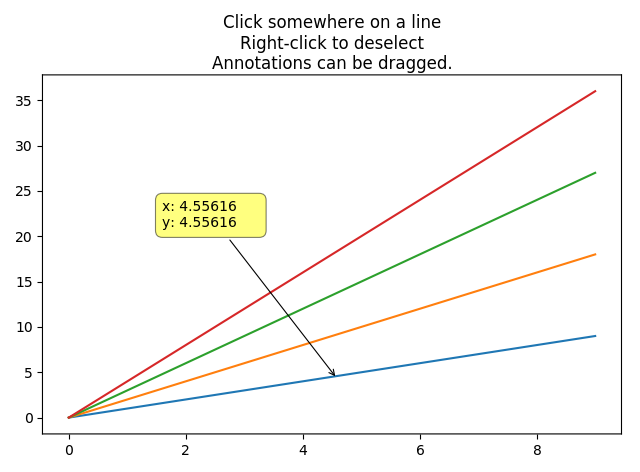
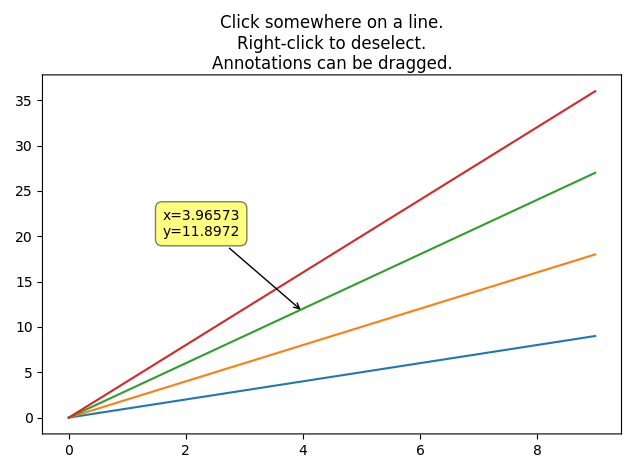
Add release script; prepare for release.

diff --git a/setup.py b/setup.py
@@ -7,6 +7,10 @@ from setuptools.command.install_lib import install_lib
 import versioneer
 
 
+if not sys.version_info >= (3, 5):
+    raise ImportError("mplcursors require Python>=3.5")
+
+
 # Environment variable-based activation.
 #
 # Technique inspired from http://github.com/ionelmc/python-hunter.
@@ -54,18 +58,17 @@ class install_lib_with_pth(install_lib):
                 file.name, str(Path(self.install_dir, "mplcursors.pth")))
 
 
-if __name__ == "__main__":
-    if not sys.version_info >= (3, 5):
-        raise ImportError("mplcursors require Python>=3.5")
-
-    setup(name="mplcursors",
-          version=versioneer.get_version(),
-          cmdclass={**versioneer.get_cmdclass(),
-                    "install_lib": install_lib_with_pth},
-          author="Antony Lee",
-          license="BSD",
-          classifiers=["Development Status :: 4 - Beta",
-                       "License :: OSI Approved :: BSD License",
-                       "Programming Language :: Python :: 3.5"],
-          packages=find_packages(include=["mplcursors", "mplcursors.*"]),
-          install_requires=["numpy>=1.8", "matplotlib>=1.5"])
+setup(name="mplcursors",
+      description="Interactive, clickable annotations for matplotlib",
+      long_description=Path("README.rst").read_text(),
+      version=versioneer.get_version(),
+      cmdclass={**versioneer.get_cmdclass(),
+                "install_lib": install_lib_with_pth},
+      author="Antony Lee",
+      url="https://github.com/anntzer/mplcursors",
+      license="BSD",
+      classifiers=["Development Status :: 4 - Beta",
+                   "License :: OSI Approved :: BSD License",
+                   "Programming Language :: Python :: 3.5"],
+      packages=find_packages(include=["mplcursors", "mplcursors.*"]),
+      install_requires=["numpy>=1.8", "matplotlib>=1.5"])

diff --git a/doc/conf.py b/doc/conf.py
@@ -62,11 +62,13 @@ author = 'Antony Lee'
 # |version| and |release|, also used in various other places throughout the
 # built documents.
 #
+# RTD modifies conf.py, making versioneer mark the version as -dirty.
+import re
 import mplcursors
 # The short X.Y version.
-version = mplcursors.__version__
+version = re.sub(r"\.dirty$", "", mplcursors.__version__)
 # The full version, including alpha/beta/rc tags.
-release = mplcursors.__version__
+release = re.sub(r"\.dirty$", "", mplcursors.__version__)
 
 # The language for content autogenerated by Sphinx. Refer to documentation
 # for a list of supported languages.

diff --git a/examples/basic.py b/examples/basic.py
@@ -9,7 +9,7 @@ data = np.outer(range(10), range(1, 5))
 
 fig, ax = plt.subplots()
 lines = ax.plot(data)
-ax.set_title("Click somewhere on a line\nRight-click to deselect\n"
+ax.set_title("Click somewhere on a line.\nRight-click to deselect.\n"
              "Annotations can be dragged.")
 fig.tight_layout()
 

diff --git a/README.rst b/README.rst
@@ -1,0 +1,24 @@
+mplcursors – Interactive, clickable annotations for matplotlib
+==============================================================
+
+|Python35| |Documentation Status| |Travis| |CodeCov|
+
+``mplcursors`` is my variation on ``mpldatacursor``
+(https://github.com/joferkington/mpldatacursor), with a much simplified
+API.
+
+Full documentation on `RTD <https://mplcursors.readthedocs.org>`__.
+
+Install with ``python -mpip install mplcursors`` (from PyPI) or
+``python -mpip install git+https://github.com/anntzer/mplcursors`` (from
+Github).
+
+Run tests with ``py.test``.
+
+.. |Python35| image:: https://img.shields.io/badge/python-3.5-blue.svg
+.. |Documentation Status| image:: https://readthedocs.org/projects/mplcursors/badge/?version=latest
+   :target: http://mplcursors.readthedocs.io/en/latest/?badge=latest
+.. |Travis| image:: https://travis-ci.org/anntzer/mplcursors.svg?branch=master
+   :target: https://travis-ci.org/anntzer/mplcursors
+.. |CodeCov| image:: https://codecov.io/gh/anntzer/mplcursors/master.svg
+   :target: https://codecov.io/gh/anntzer/mplcursors

diff --git a/doc/index.rst b/doc/index.rst
@@ -12,6 +12,16 @@ Welcome to mplcursors' documentation!
 
 :mod:`mplcursors` requires Python>=3.5 and :mod:`matplotlib`\>=1.5.0.
 
+.. _installation:
+
+Installation
+------------
+
+Pick one among::
+
+    $ pip install mplcursors # from PyPI
+    $ pip install git+https://github.com/anntzer/mplcursors # from Github
+
 .. _basic-example:
 
 Basic example
@@ -27,7 +37,7 @@ Basic examples work similarly to :mod:`mpldatacursor`::
 
     fig, ax = plt.subplots()
     lines = ax.plot(data)
-    ax.set_title("Click somewhere on a line\nRight-click to deselect\n"
+    ax.set_title("Click somewhere on a line.\nRight-click to deselect.\n"
                  "Annotations can be dragged.")
 
     mplcursors.cursor(lines) # or just mplcursors.cursor()
